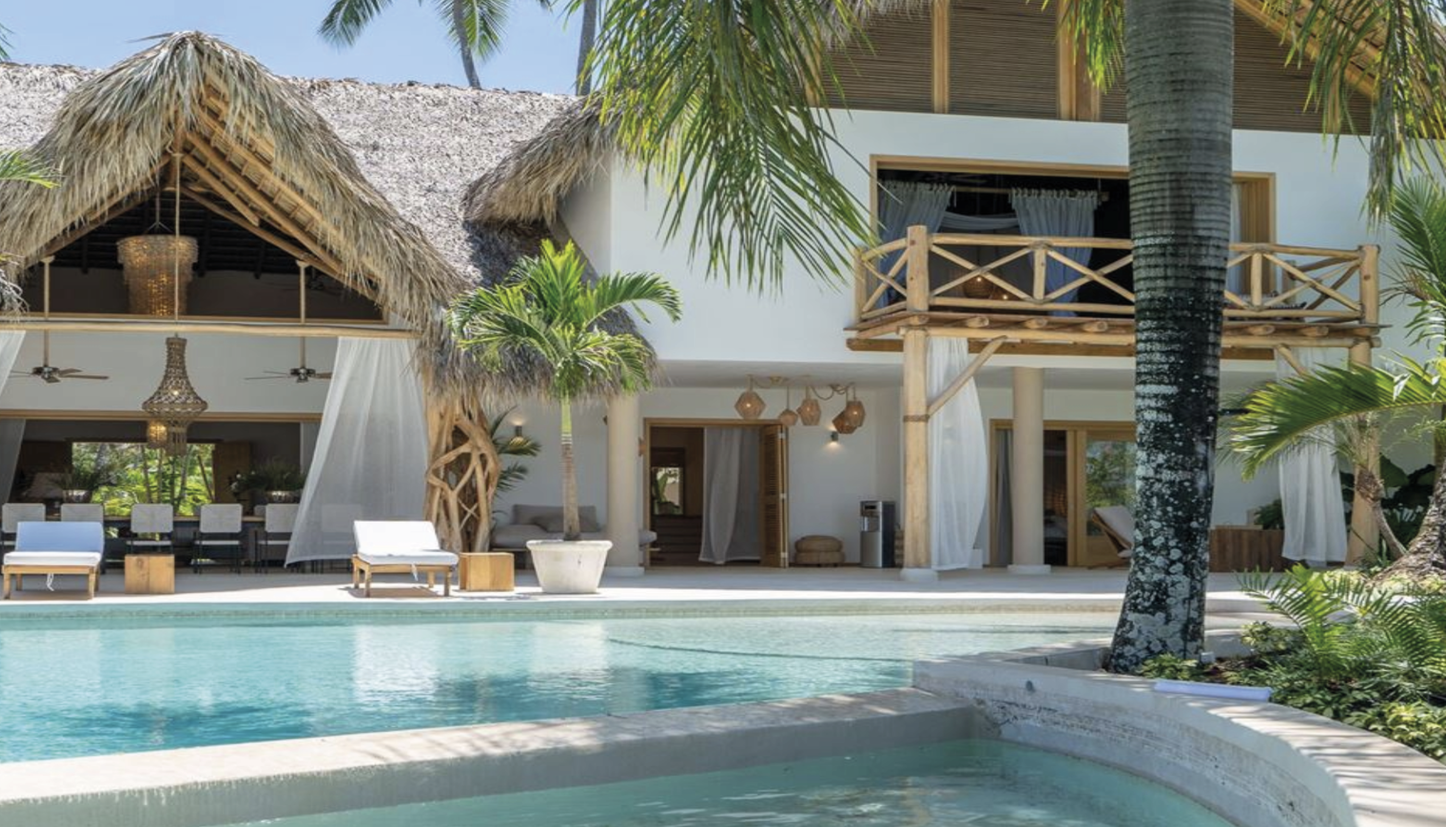
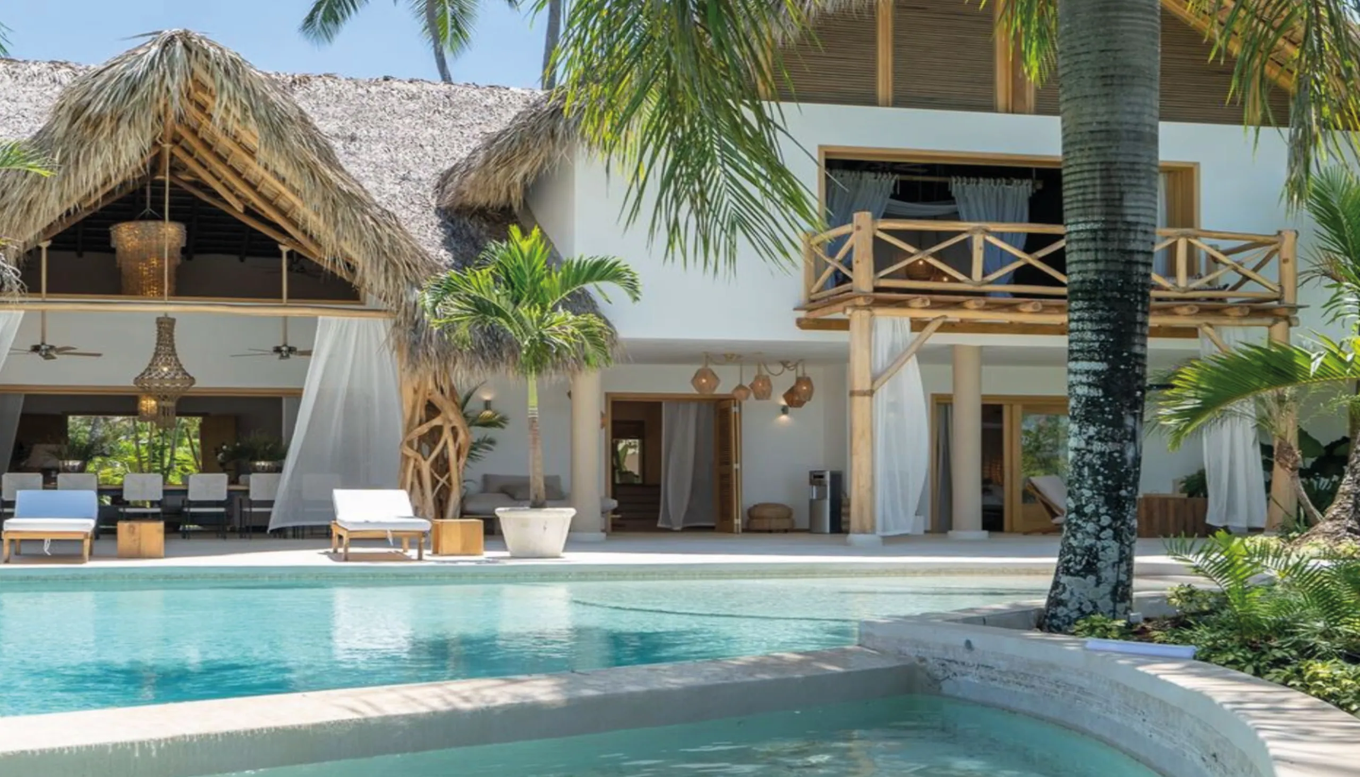
perf(images): recompress oversized assets and tune next/image
- Recompress /public raster images in place (downscale to 2560px max,
  quality 80): 72.6 MB -> 12.8 MB total, no code references changed.
  img-gold.webp was a mislabeled 13 MB PNG, now a real 185 KB WebP.
- Add priority to LCP images: asset page header hero (commodities,
  tmc, tsp500) and first carousel slide.
- Add missing sizes props on fill images (poc-stellar hero, footer
  and header logos, swap switch icon).
- Set images.minimumCacheTTL to 30 days so immutable /public assets
  are not re-transcoded on a cold optimizer cache.

diff --git a/components/shared/AssetPageHeader.tsx b/components/shared/AssetPageHeader.tsx
@@ -8,6 +8,8 @@ interface AssetPageHeaderProps {
   logoSrc: string;
   image: string;
   imageAlt: string;
+  /** Prioritize the product image when the header is the page's LCP element. */
+  imagePriority?: boolean;
   polygonContract?: string;
   baseContract?: string;
   ethereumContract?: string;
@@ -20,6 +22,7 @@ const AssetPageHeader = ({
   logoSrc,
   image,
   imageAlt,
+  imagePriority = false,
   polygonContract,
   baseContract,
   ethereumContract,
@@ -32,7 +35,7 @@ const AssetPageHeader = ({
         <div className="min-w-0">
           <div className="flex items-center gap-3">
             <span className="relative flex h-14 w-14 shrink-0 items-center justify-center overflow-hidden rounded-2xl bg-white/10 ring-1 ring-inset ring-white/15">
-              <Image src={logoSrc} alt="" fill className="object-contain p-2" />
+              <Image src={logoSrc} alt="" fill sizes="56px" className="object-contain p-2" />
             </span>
             <span className="rounded-full bg-white/10 px-3 py-1 text-sm font-semibold text-white ring-1 ring-inset ring-white/15">
               {symbol}
@@ -50,7 +53,14 @@ const AssetPageHeader = ({
 
         {/* Product image */}
         <div className="relative h-44 w-full shrink-0 overflow-hidden rounded-2xl ring-1 ring-white/10 sm:h-52 md:w-72">
-          <Image src={image} alt={imageAlt} fill sizes="(max-width: 768px) 100vw, 288px" className="object-cover" />
+          <Image
+            src={image}
+            alt={imageAlt}
+            fill
+            sizes="(max-width: 768px) 100vw, 288px"
+            priority={imagePriority}
+            className="object-cover"
+          />
         </div>
       </div>
     </div>

diff --git a/app/poc-stellar/page.tsx b/app/poc-stellar/page.tsx
@@ -93,7 +93,14 @@ const PocStellarPage = () => {
           {/* Property card */}
           <section className="bg-white rounded-2xl shadow-md overflow-hidden">
             <div className="relative aspect-[3/2] w-full">
-              <Image src={PROPERTY.image} alt={PROPERTY.name} fill className="object-cover" priority />
+              <Image
+                src={PROPERTY.image}
+                alt={PROPERTY.name}
+                fill
+                sizes="(max-width: 1024px) 100vw, 50vw"
+                className="object-cover"
+                priority
+              />
             </div>
             <div className="p-6 space-y-4">
               <div>

diff --git a/components/features/commodities/Swap.tsx b/components/features/commodities/Swap.tsx
@@ -301,7 +301,7 @@ const Swap = ({ token }: { token: TokenInfo }) => {
             className="flex items-center justify-center w-11 h-11 sm:w-14 sm:h-14 rounded-full bg-white ring-1 ring-black/10 shadow-md hover:scale-110 hover:rotate-180 active:scale-95 transition-transform duration-300"
           >
             <span className="relative w-5 h-5 sm:w-7 sm:h-7">
-              <Image src="/images/switch.png" alt="Swap" fill className="object-contain" />
+              <Image src="/images/switch.png" alt="Swap" fill sizes="28px" className="object-contain" />
             </span>
           </button>
         </div>

diff --git a/components/layout/Footer.tsx b/components/layout/Footer.tsx
@@ -43,7 +43,7 @@ const Footer = () => {
           {/* Brand */}
           <div className="col-span-2 md:col-span-1">
             <div className="relative h-14 w-14">
-              <Image src="/logos/shorts/logo_tokeshare-04.webp" alt="Tokeshare" fill className="object-contain" />
+              <Image src="/logos/shorts/logo_tokeshare-04.webp" alt="Tokeshare" fill sizes="56px" className="object-contain" />
             </div>
             <p className="mt-4 max-w-xs text-sm leading-relaxed text-white/60">
               Tokenized real-world assets, on-chain.

diff --git a/next.config.ts b/next.config.ts
@@ -17,6 +17,9 @@ const nextConfig: NextConfig = {
   images: {
     qualities: [75, 90],
     formats: ['image/avif', 'image/webp'],
+    // All image sources are static, immutable assets in /public — cache the
+    // optimized variants aggressively so they aren't re-transcoded every 60s.
+    minimumCacheTTL: 2592000, // 30 days
   },
   experimental: {
     optimizePackageImports: ['lucide-react'],

diff --git a/app/marketplace/commodities/[name]/page.tsx b/app/marketplace/commodities/[name]/page.tsx
@@ -111,6 +111,7 @@ const CommodityPage = async ({ params }: PageProps) => {
           logoSrc={tokenInfo.tokenImage}
           image={commodity.image}
           imageAlt={commodity.name}
+          imagePriority
           polygonContract={tokenInfo.polygonContract}
           ethereumContract={tokenInfo.ethereumContract}
         />

diff --git a/components/shared/PhotoCarousel.tsx b/components/shared/PhotoCarousel.tsx
@@ -76,6 +76,7 @@ const PhotoCarousel = ({
                 alt={`${altPrefix} ${i + 1}`}
                 fill
                 sizes="(max-width: 1024px) 100vw, 720px"
+                priority={i === 0}
                 className={objectFit}
               />
             </div>

diff --git a/app/marketplace/stock-etf/tsp500/page.tsx b/app/marketplace/stock-etf/tsp500/page.tsx
@@ -16,6 +16,7 @@ const TSP500Page = () => {
           logoSrc="/images/image_TSP500.png"
           image="/images/image_TSP500.webp"
           imageAlt="Tokeshare S&P500"
+          imagePriority
           baseContract={BASE_CONTRACTS.TSP500}
         />
 

diff --git a/app/marketplace/stock-etf/tmc/page.tsx b/app/marketplace/stock-etf/tmc/page.tsx
@@ -16,6 +16,7 @@ const TMCPage = () => {
           logoSrc="/images/currencies/tmc.png"
           image="/images/tmc/tmc.webp"
           imageAlt="Tokeshare MarketCap 20"
+          imagePriority
           baseContract={BASE_CONTRACTS.TMC}
         />
 
